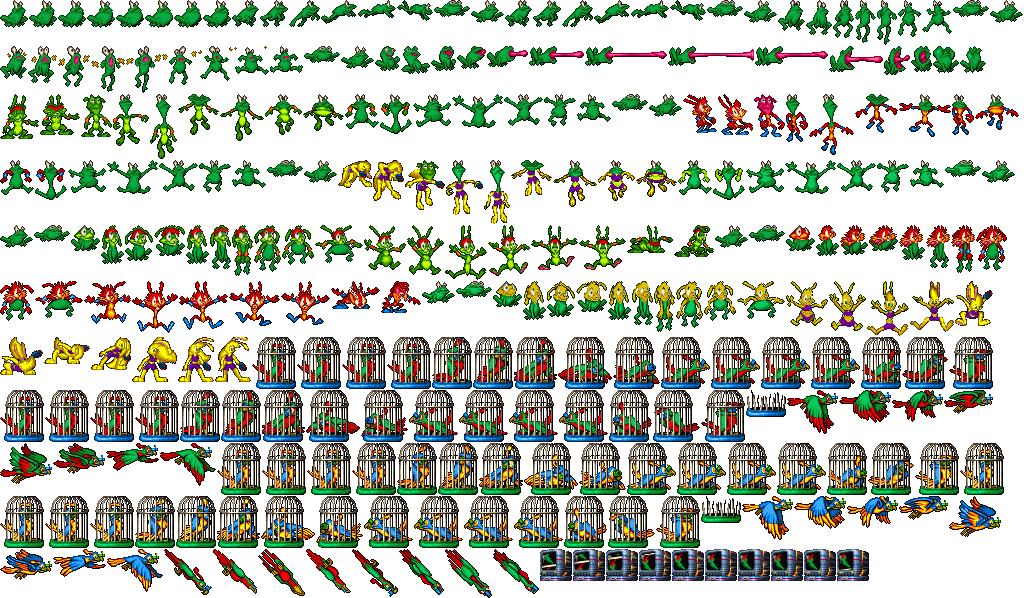
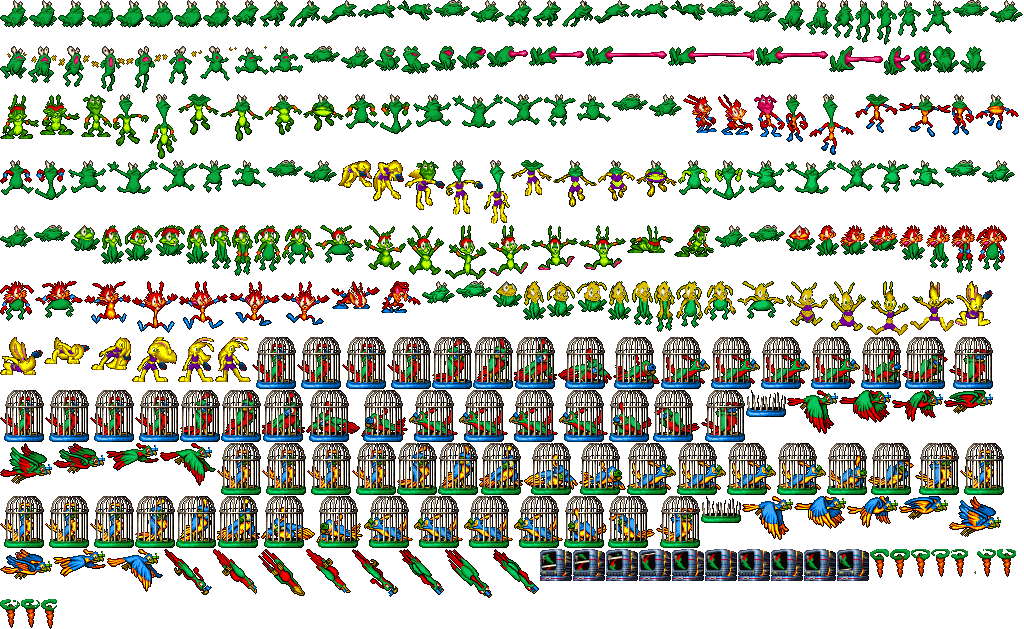
The fly carrot: JJ2's event 96 gives copter ears until a fly-off area
Far Out's only way up to the exit is the fly carrot at the foot of the
column left of the spring; it was dropped, so the level could not be
finished. Flying uses the bird's controls (Jump or Up climbs, Down dives)
with the hero's copter animation, and a death or a fly-off area (event 8)
ends it.

Claude-Session: https://claude.ai/code/session_014VrjeuzQF9z1CDhmbTuLih

diff --git a/src/player.js b/src/player.js
@@ -62,7 +62,7 @@ export class Player {
       stomping: false, special: 0, rush: 0, celebrate: false,
       pole: null, poleT: 0, poleCool: 0, springLock: 0, warpLock: null,
       crouchT: 0, superJump: false, shield: 0, armor: 0, shieldType: 'fire', pushing: 0, dash: 0, jumpCut: false,
-      hang: null, hangCool: 0, board: false, noFire: false, frog: false, morph: 0, morphDir: null, tongue: 0, tongueHit: null, birdForm: false, copter: 0, swimming: false, floatUp: false, inTube: 0, doubleJumped: false, platform: null, launched: false,
+      hang: null, hangCool: 0, board: false, noFire: false, frog: false, morph: 0, morphDir: null, tongue: 0, tongueHit: null, birdForm: false, flyCarrot: false, copter: 0, swimming: false, floatUp: false, inTube: 0, doubleJumped: false, platform: null, launched: false,
       dead: false, deadTimer: 0, anim: 'idle', animTime: 0, skid: 0, idleTime: 0, weaponShown: 0, djWindow: 0, rfBlast: 0, rfDir: 0, dizzy: 0, aim: null, fastFeet: 0,
     });
   }
@@ -122,7 +122,7 @@ export class Player {
     }
 
     // The bird morph flies (JJ2 event 94, Return of Birdland).
-    if (this.birdForm) { this.fly(game, input); return; }
+    if (this.birdForm || this.flyCarrot) { this.fly(game, input); return; }
 
     const controlled = this.knock === 0 && this.special === 0 && this.springLock === 0 && this.tongue === 0;
     const dir = controlled ? (input.held('right') ? 1 : 0) - (input.held('left') ? 1 : 0) : 0;
@@ -686,7 +686,7 @@ export class Player {
     const dir = controlled ? (input.held('right') ? 1 : 0) - (input.held('left') ? 1 : 0) : 0;
     if (dir) this.facing = dir;
     this.vx = dir ? accelerate(this.vx, dir, PHYS.walkAccel, PHYS.walkMax, PHYS.walkDecel) : approach(this.vx, 0, PHYS.walkDecel);
-    if (controlled && input.held('jump')) this.vy = Math.max(this.vy - 0.45, -4);
+    if (controlled && (input.held('jump') || (this.flyCarrot && input.held('up')))) this.vy = Math.max(this.vy - 0.45, -4);
     else if (controlled && input.held('down')) this.vy = Math.min(this.vy + 0.35, 6);
     else this.vy = Math.min(this.vy + 0.1, 1.6);
     if (input.pressed('jump')) game.audio.play('hover', 0.4);
@@ -702,10 +702,12 @@ export class Player {
       this.aim = null;
       if (!(game.party && game.party.items.use(game))) fire(game, this);
     }
-    if (level.areaAt && level.areaAt(this.cx, this.cy) === EV.REVERT_MORPH) this.setBird(game, false);
+    const area = level.areaAt ? level.areaAt(this.cx, this.cy) : 0;
+    if (area === EV.REVERT_MORPH) this.setBird(game, false);
+    if (area === EV.FLY_OFF) this.setFlyCarrot(game, false);
     if (level.touchesSpikes(this) && this.rush === 0) this.hurt(game, this.cx - this.facing, { spikes: true });
     if (this.y > level.pixelH + 64) game.killPlayer();
-    this.anim = 'bird';
+    this.anim = this.flyCarrot ? 'hover' : 'bird';
   }
 
   setBird(game, on) {
@@ -716,6 +718,19 @@ export class Player {
     game.audio.play('frogMorph');
     game.effect('poof', this.cx, this.cy);
     if (on) game.banner('BIRD MORPH!', 70);
+  }
+
+  // The fly carrot's copter ears: flying as the bird does, until a fly-off
+  // area (or a death).
+  setFlyCarrot(game, on) {
+    if (this.flyCarrot === on) return;
+    this.flyCarrot = on;
+    if (!on) return;
+    this.setBird(game, false);
+    this.loseBoard(game);
+    Object.assign(this, { hovering: false, stomping: false, special: 0, copter: 0, jumping: false, vy: Math.min(this.vy, 0) });
+    game.audio.play('hover', 0.6);
+    game.banner('FLY CARROT!', 70);
   }
 
   // Into a frog (on) or back: the hero's own transformation, then the

diff --git a/src/entities.js b/src/entities.js
@@ -366,7 +366,7 @@ export class Copter {
     if (this.gone) { this.y -= 2; if (++this.gone > 120) this.dead = true; return; }
     this.y = this.baseY + Math.sin(this.t / 12) * 4;
     if (this.t > 600) { this.gone = 1; return; }
-    if (p.dead || p.copter > 0 || p.board || p.birdForm || p.frog || p.pole || p.hang || !overlap(this, p)) return;
+    if (p.dead || p.copter > 0 || p.board || p.birdForm || p.flyCarrot || p.frog || p.pole || p.hang || !overlap(this, p)) return;
     Object.assign(p, { copter: LIZARD_COPTER_TICKS, vy: Math.min(p.vy, 0), onGround: false, hovering: false, stomping: false, jumping: false });
     this.held = true;
     game.audio.play('select');
@@ -649,6 +649,7 @@ export class Pickup {
     if (o.type === 'birdcage') return new Pickup('birdcage', o.tx * TILE - 4, o.ty * TILE + TILE - 50, { w: 40, h: 50, needsHit: true, yellow: o.yellow });
     if (o.type === 'birdmonitor') return new Pickup('birdmonitor', x - 6, o.ty * TILE + TILE - 32, { w: 28, h: 32, needsHit: true });
     if (o.type === 'birdmorph') return new Pickup('birdmorph', x - 6, o.ty * TILE + TILE - 32, { w: 28, h: 32, needsHit: true });
+    if (o.type === 'flycarrot') return new Pickup('flycarrot', x - 4, y - 4, { w: 24, h: 24 });
     return null;
   }
 
@@ -678,6 +679,7 @@ export class Pickup {
     if (this.kind === 'airboard') return boardSprite(Math.floor(this.t / 4) % 4);
     if (this.kind === 'birdcage') return frameAt(this.yellow ? art.morphs.anims.birdyCaged : art.morphs.anims.chuckCaged, this.t, 6);
     if (this.kind === 'birdmonitor' || this.kind === 'birdmorph') return frameAt(art.morphs.anims.birdMonitor, this.t, 6);
+    if (this.kind === 'flycarrot') return frameAt(art.morphs.anims.carrotFly, this.t, 7);
     if (this.kind === 'shield') return frameAt(a[SHIELDS[this.shield || 'fire'].monitor], this.t, 6);
     if (this.kind === 'armor') return frameAt(a.monShieldPlasma || a[SHIELDS.plasma.monitor], this.t, 6);
     if (this.kind === 'morph') return frameAt(a.monChange, this.t, 5);
@@ -739,6 +741,9 @@ export class Pickup {
       if (!game.freeBird(this)) { this.taken = false; return; }
     } else if (this.kind === 'birdmorph') {
       p.setBird(game, true);
+      game.addScore(500, cx, this.y);
+    } else if (this.kind === 'flycarrot') {
+      p.setFlyCarrot(game, true);
       game.addScore(500, cx, this.y);
     } else if (this.kind === 'airboard') {
       p.mountBoard(game);

diff --git a/src/jj2/level.js b/src/jj2/level.js
@@ -340,6 +340,8 @@ export class JJ2Level extends Level {
           case 79: this.objects.push({ type: 'item', tx, ty, kind: 'fastFeet' }); break;
           case 89: this.objects.push({ type: 'item', tx, ty, kind: 'stopwatch' }); break;
           case 90: this.objects.push({ type: 'item', tx, ty, kind: 'freeze' }); break;
+          // The fly carrot: copter ears until a fly-off area (or a death).
+          case 96: this.objects.push({ type: 'flycarrot', tx, ty }); break;
           case BOMB: this.objects.push({ type: 'bomb', tx, ty }); armed.add('blast'); break;
           // Pushable rock and box (push them along; stand on them).
           case 231: this.objects.push({ type: 'push', tx, ty, kind: 'rock' }); break;
@@ -352,7 +354,7 @@ export class JJ2Level extends Level {
             break;
           case EV.BELT_RIGHT: case EV.BELT_LEFT: case EV.ACC_BELT_RIGHT: case EV.ACC_BELT_LEFT:
           case EV.WIND_LEFT: case EV.WIND_RIGHT: case EV.FLOAT_UP: case EV.TUBE: case EV.SET_WATER:
-          case EV.LIGHT_SET: case EV.LIGHT_RESET: case EV.STOP_ENEMY: case EV.SLIDE: case EV.MORPH_FROG: case EV.REVERT_MORPH:
+          case EV.LIGHT_SET: case EV.LIGHT_RESET: case EV.STOP_ENEMY: case EV.SLIDE: case EV.MORPH_FROG: case EV.REVERT_MORPH: case EV.FLY_OFF:
             this.areas[i] = id; this.areaParams[i] = ev.params;
             break;
           default:

diff --git a/src/lang.js b/src/lang.js
@@ -239,6 +239,7 @@ const ROWS = [
   ["PLASMA SHIELD", "PLASMASCHILD", "BOUCLIER PLASMA", "ESCUDO DE PLASMA", "SCUDO AL PLASMA", "PLASMASCHILD"],
   ["QUICK CHANGE: {0}!", "SCHNELLWECHSEL: {0}!", "CHANGEMENT : {0} !", "¡CAMBIO RÁPIDO: {0}!", "CAMBIO RAPIDO: {0}!", "SNELWISSEL: {0}!"],
   ["SWITCH!", "SCHALTER!", "INTERRUPTEUR !", "¡INTERRUPTOR!", "INTERRUTTORE!", "SCHAKELAAR!"],
+  ["FLY CARROT!", "FLUGKAROTTE!", "CAROTTE VOLANTE !", "¡ZANAHORIA VOLADORA!", "CAROTA VOLANTE!", "VLIEGWORTEL!"],
   ["SPEED SHOES!", "TEMPOSCHUHE!", "CHAUSSURES RAPIDES !", "¡ZAPATILLAS VELOCES!", "SCARPE VELOCI!", "SNELLE SCHOENEN!"],
   ["FREEZE!", "EISZEIT!", "GEL !", "¡CONGELACIÓN!", "GELO!", "BEVRIEZEN!"],
   ["+10 SECONDS SHIELD!", "+10 SEKUNDEN SCHILD!", "+10 SECONDES DE BOUCLIER !", "¡+10 SEGUNDOS DE ESCUDO!", "+10 SECONDI DI SCUDO!", "+10 SECONDEN SCHILD!"],

diff --git a/src/render.js b/src/render.js
@@ -556,6 +556,7 @@ export class Renderer {
     if (p.pole || p.hang || p.copter > 0) return 'spring';
     if (p.knock > 0) return 'hurt';
     if (p.board) return 'airboard';
+    if (p.flyCarrot) return p.shootPose > 0 ? 'hoverShoot' : 'hover';
     if (p.dizzy > 0) return 'dizzy';
     // Aiming up: straight up standing (or in the air), diagonally while moving.
     if (p.shootPose > 0 && p.aim && !p.hovering && !p.stomping && p.special === 0 && !p.swimming) {

diff --git a/src/game.js b/src/game.js
@@ -582,7 +582,7 @@ export class Game {
     const p = this.player;
     if (p.dead) return;
     p.board = false;
-    p.frog = false; p.morph = 0; p.birdForm = false; p.copter = 0;
+    p.frog = false; p.morph = 0; p.birdForm = false; p.flyCarrot = false; p.copter = 0;
     if (this.bird) this.bird.flyAway();
     // Party: knocked out (falling off the world), back in 10 s.
     if (this.party) { this.party.knockOut(this); return; }
